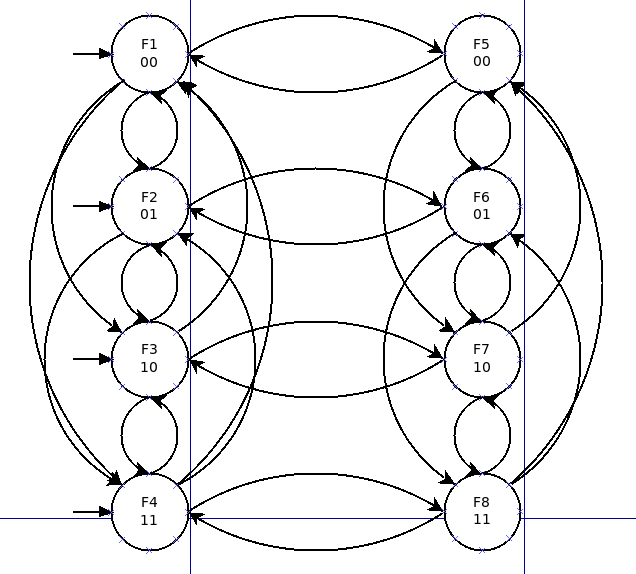
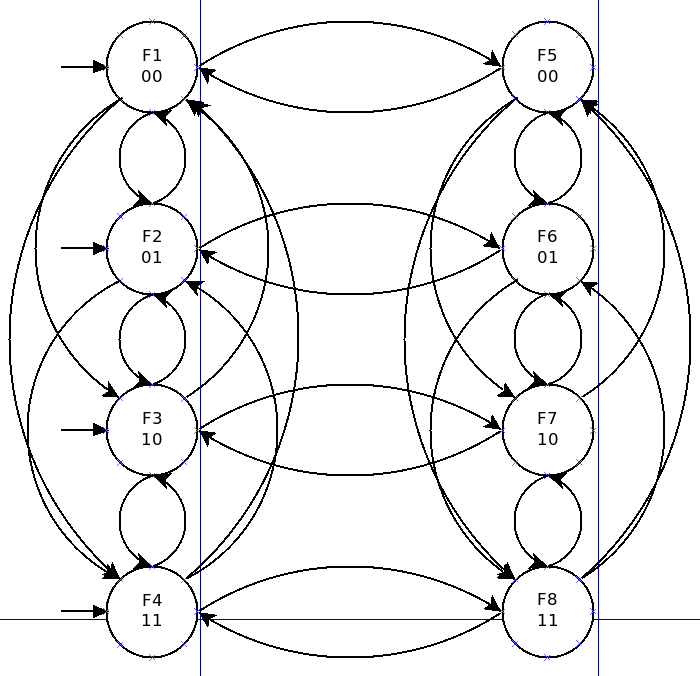
feito Codificador, mas possui erros ainda.

diff --git a/Prod/Codificador.py b/Prod/Codificador.py
@@ -34,13 +34,23 @@ class Codificador(Subcamada):
         self.byte_count = 0  # aponta em qual byte estamos lendo na sequencia
         self.bit_count = 0  # aponta em qual bit estamos lendo na sequencia de bytes
 
-    def recebe(self, quadro):
+    def envia(self, quadro):
+        self.bit_count = 0
+        self.byte_count = 0
         self.set_initial_state(quadro)
-        self.handle_mef(quadro)
+
+        while self.bit_count < (len(quadro.data) * 8):
+            self.handle_mef(quadro)
+
+        # TODO ajustar aqui
+        # self.lower.envia(self.buffer)
+        print(self.buffer)
+        self.buffer = []
 
     def set_initial_state(self, quadro):
-        first_bit = ByteUtils.get_bit(quadro.data[0], 7)
-        second_bit = ByteUtils.get_bit(quadro.data[0], 6)
+        bits = self.next_two_bits(quadro)
+        first_bit = bits[0]
+        second_bit = bits[1]
 
         if first_bit == 0:
             if second_bit == 0:
@@ -53,60 +63,171 @@ class Codificador(Subcamada):
             else:
                 self.state = State.f4
 
+    def set_next_state(self, bits):
+        first_bit = bits[0]
+        second_bit = bits[1]
+        if self.state == State.f1:
+            if first_bit == 0:
+                if second_bit == 0:
+                    self.state = State.f5
+                else:
+                    self.state = State.f2
+            else:
+                if second_bit == 0:
+                    self.state = State.f3
+                else:
+                    self.state = State.f4
+        elif self.state == State.f2:
+            if first_bit == 0:
+                if second_bit == 0:
+                    self.state = State.f1
+                else:
+                    self.state = State.f6
+            else:
+                if second_bit == 0:
+                    self.state = State.f3
+                else:
+                    self.state = State.f4
+        elif self.state == State.f3:
+            if first_bit == 0:
+                if second_bit == 0:
+                    self.state = State.f1
+                else:
+                    self.state = State.f2
+            else:
+                if second_bit == 0:
+                    self.state = State.f7
+                else:
+                    self.state = State.f4
+        elif self.state == State.f4:
+            if first_bit == 0:
+                if second_bit == 0:
+                    self.state = State.f1
+                else:
+                    self.state = State.f2
+            else:
+                if second_bit == 0:
+                    self.state = State.f3
+                else:
+                    self.state = State.f8
+        elif self.state == State.f5:
+            if first_bit == 0:
+                if second_bit == 0:
+                    self.state = State.f1
+                else:
+                    self.state = State.f6
+            else:
+                if second_bit == 0:
+                    self.state = State.f7
+                else:
+                    self.state = State.f8
+        elif self.state == State.f6:
+            if first_bit == 0:
+                if second_bit == 0:
+                    self.state = State.f5
+                else:
+                    self.state = State.f2
+            else:
+                if second_bit == 0:
+                    self.state = State.f7
+                else:
+                    self.state = State.f8
+        elif self.state == State.f7:
+            if first_bit == 0:
+                if second_bit == 0:
+                    self.state = State.f5
+                else:
+                    self.state = State.f6
+            else:
+                if second_bit == 0:
+                    self.state = State.f3
+                else:
+                    self.state = State.f8
+        elif self.state == State.f8:
+            if first_bit == 0:
+                if second_bit == 0:
+                    self.state = State.f5
+                else:
+                    self.state = State.f6
+            else:
+                if second_bit == 0:
+                    self.state = State.f7
+                else:
+                    self.state = State.f4
+
     def handle_mef(self, quadro):
         current_dealer = self.dealers[self.state]
         return current_dealer(quadro)
 
     def next_two_bits(self, quadro):
         self.byte_count = self.bit_count // 8
-        bit_counter = self.bit_count % 8
+        bit_count = self.bit_count % 8
 
-        first_bit = ByteUtils.get_bit(quadro.data[self.byte_count])
-        second_bit = ByteUtils.get_bit(quadro.data[self.byte_count])
+        first_bit = ByteUtils.get_bit(quadro.data[self.byte_count], bit_count)
+        second_bit = ByteUtils.get_bit(quadro.data[self.byte_count], bit_count)
 
-        return [first_bit, second_bit]
+        return first_bit, second_bit
 
     def f1(self, quadro):
         self.buffer.append(0)
         self.buffer.append(0)
 
         self.bit_count += 2
-        self.next_state(quadro)
-
-        # TODO aqui falta fazer mt coisa ainda
-
+        next_two_bits = self.next_two_bits(quadro)
+        self.set_next_state(next_two_bits)
 
     def f2(self, quadro):
         self.buffer.append(0)
         self.buffer.append(1)
-        pass
+
+        self.bit_count += 2
+        next_two_bits = self.next_two_bits(quadro)
+        self.set_next_state(next_two_bits)
 
     def f3(self, quadro):
         self.buffer.append(1)
         self.buffer.append(0)
-        pass
+
+        self.bit_count += 2
+        next_two_bits = self.next_two_bits(quadro)
+        self.set_next_state(next_two_bits)
 
     def f4(self, quadro):
         self.buffer.append(1)
         self.buffer.append(1)
-        pass
+
+        self.bit_count += 2
+        next_two_bits = self.next_two_bits(quadro)
+        self.set_next_state(next_two_bits)
 
     def f5(self, quadro):
         self.buffer.append(0)
         self.buffer.append(0)
-        pass
+
+        self.bit_count += 2
+        next_two_bits = self.next_two_bits(quadro)
+        self.set_next_state(next_two_bits)
 
     def f6(self, quadro):
         self.buffer.append(0)
         self.buffer.append(1)
-        pass
+
+        self.bit_count += 2
+        next_two_bits = self.next_two_bits(quadro)
+        self.set_next_state(next_two_bits)
 
     def f7(self, quadro):
         self.buffer.append(1)
         self.buffer.append(0)
-        pass
+
+        self.bit_count += 2
+        next_two_bits = self.next_two_bits(quadro)
+        self.set_next_state(next_two_bits)
 
     def f8(self, quadro):
         self.buffer.append(1)
         self.buffer.append(1)
-        pass
+
+        self.bit_count += 2
+        next_two_bits = self.next_two_bits(quadro)
+        self.set_next_state(next_two_bits)
